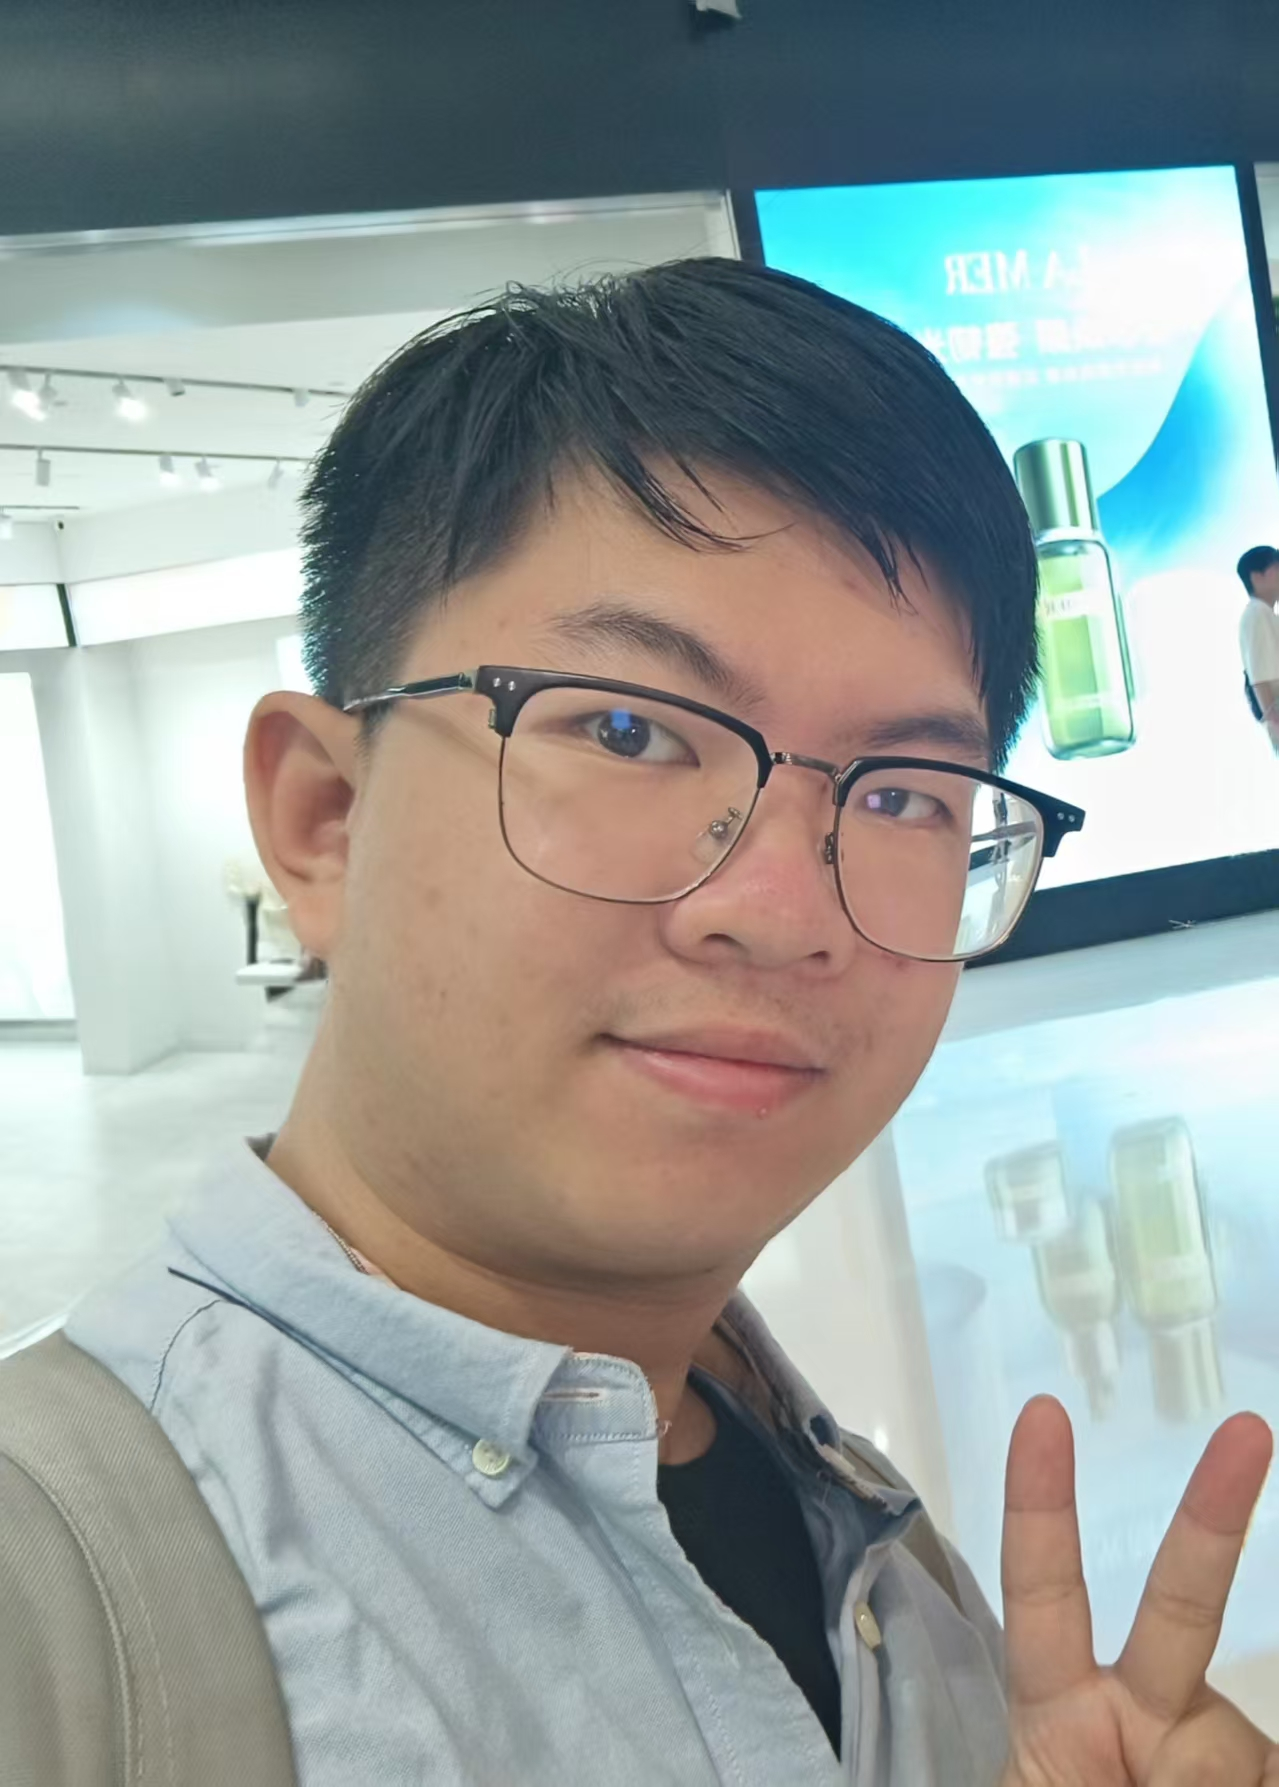
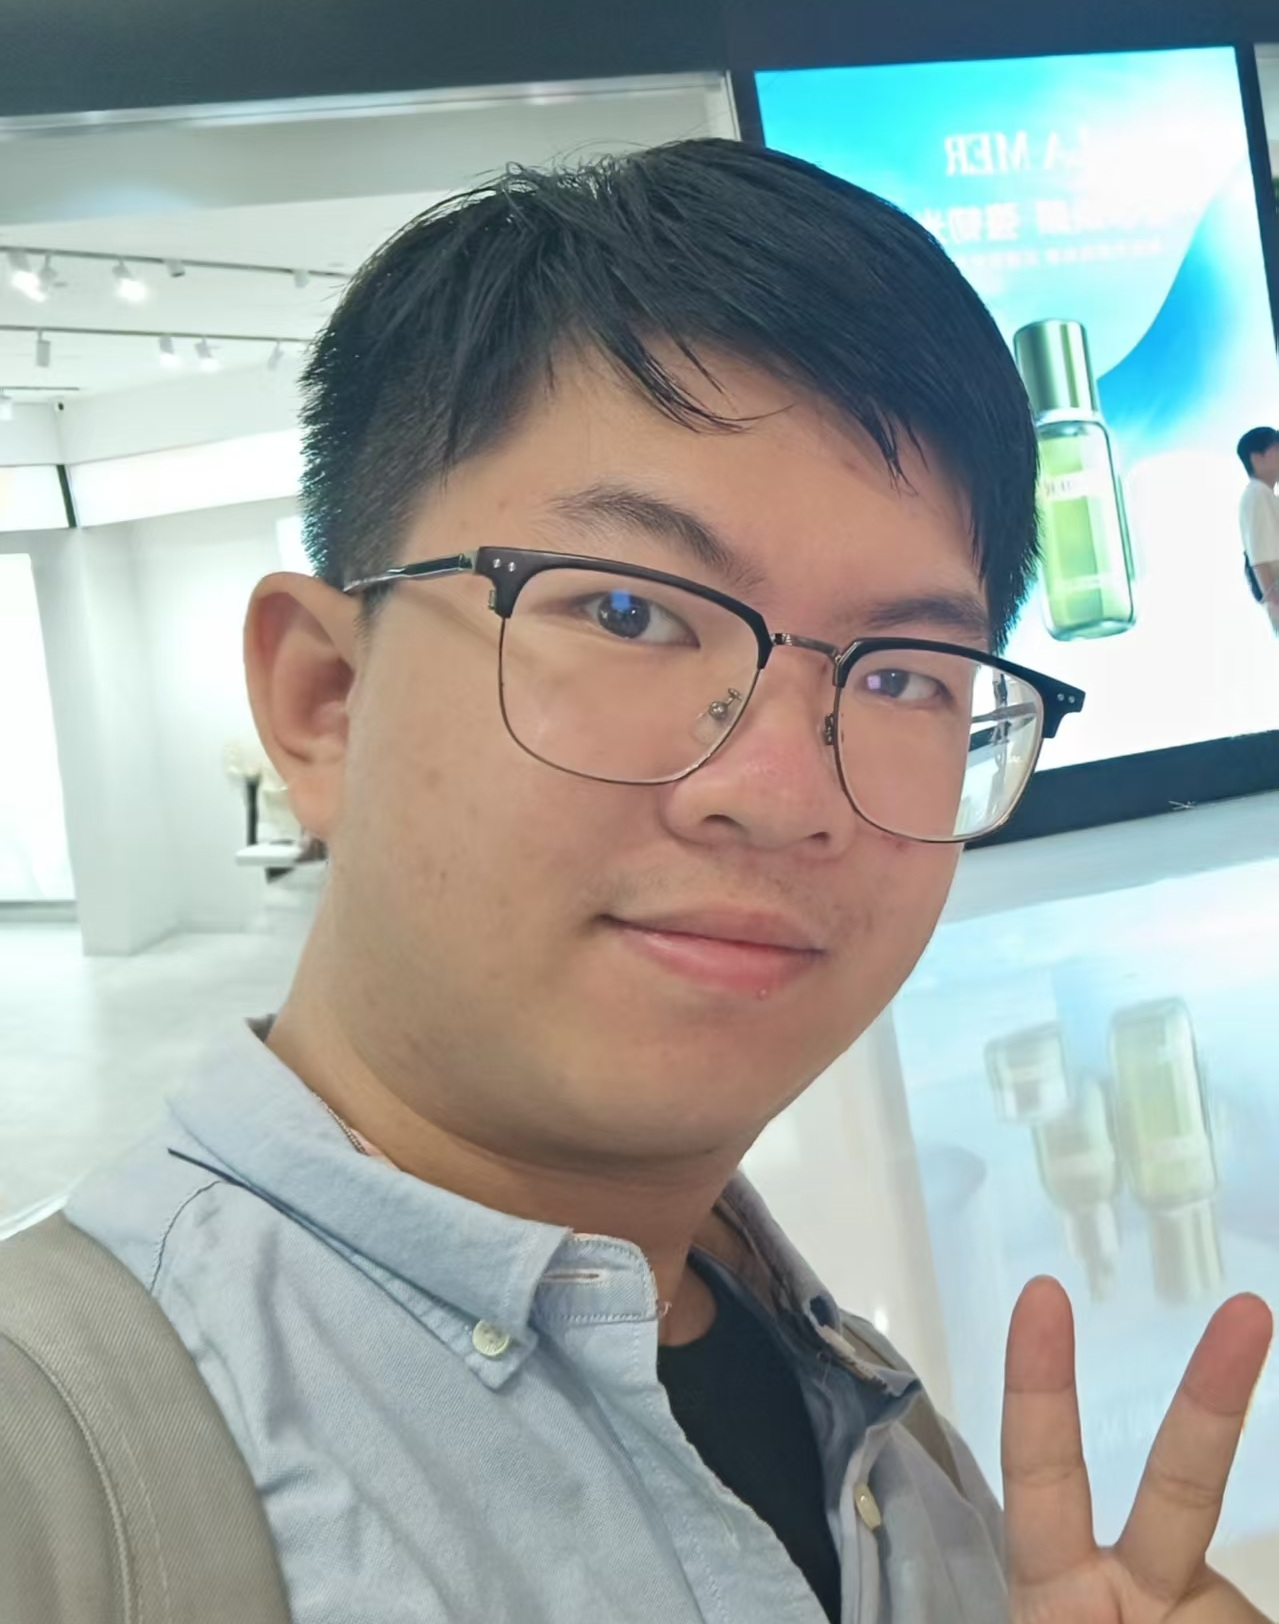
Hyperlink advisor name in About and Education pages

diff --git a/_pages/about.md b/_pages/about.md
@@ -7,6 +7,6 @@ redirect_from:
   - /about.html
 ---
 
-I am a second-year Ph.D. student in Electronic Information (Artificial Intelligence) at Shanghai Jiao Tong University, advised by Prof. Pengfei Liu. My research focuses on large language models: evaluation of deep AI research systems, reinforcement learning for instruction following, and fine-grained reward modeling.
+I am a second-year Ph.D. student in Electronic Information (Artificial Intelligence) at Shanghai Jiao Tong University, advised by [Prof. Pengfei Liu](https://plms.ai/). My research focuses on large language models: evaluation of deep AI research systems, reinforcement learning for instruction following, and fine-grained reward modeling.
 
 I have first-author / co-first-author papers accepted at COLM 2026 (*Rubrics to Tokens*; *ResearcherBench*). Previously, I interned at Alibaba (Taobao & Tmall Group) on agent reinforcement learning.

diff --git a/_pages/education.md b/_pages/education.md
@@ -6,6 +6,6 @@ author_profile: true
 ---
 
 - **Ph.D. in Electronic Information (Artificial Intelligence)**, School of Computer Science and Engineering, Shanghai Jiao Tong University, 2025 – 2030 (expected)
-  - Advisor: Prof. Pengfei Liu
+  - Advisor: [Prof. Pengfei Liu](https://plms.ai/)
 - **B.S. in E-Commerce and Law**, International School, Beijing University of Posts and Telecommunications, 2021 – 2025
   - National Scholarship (2021)
